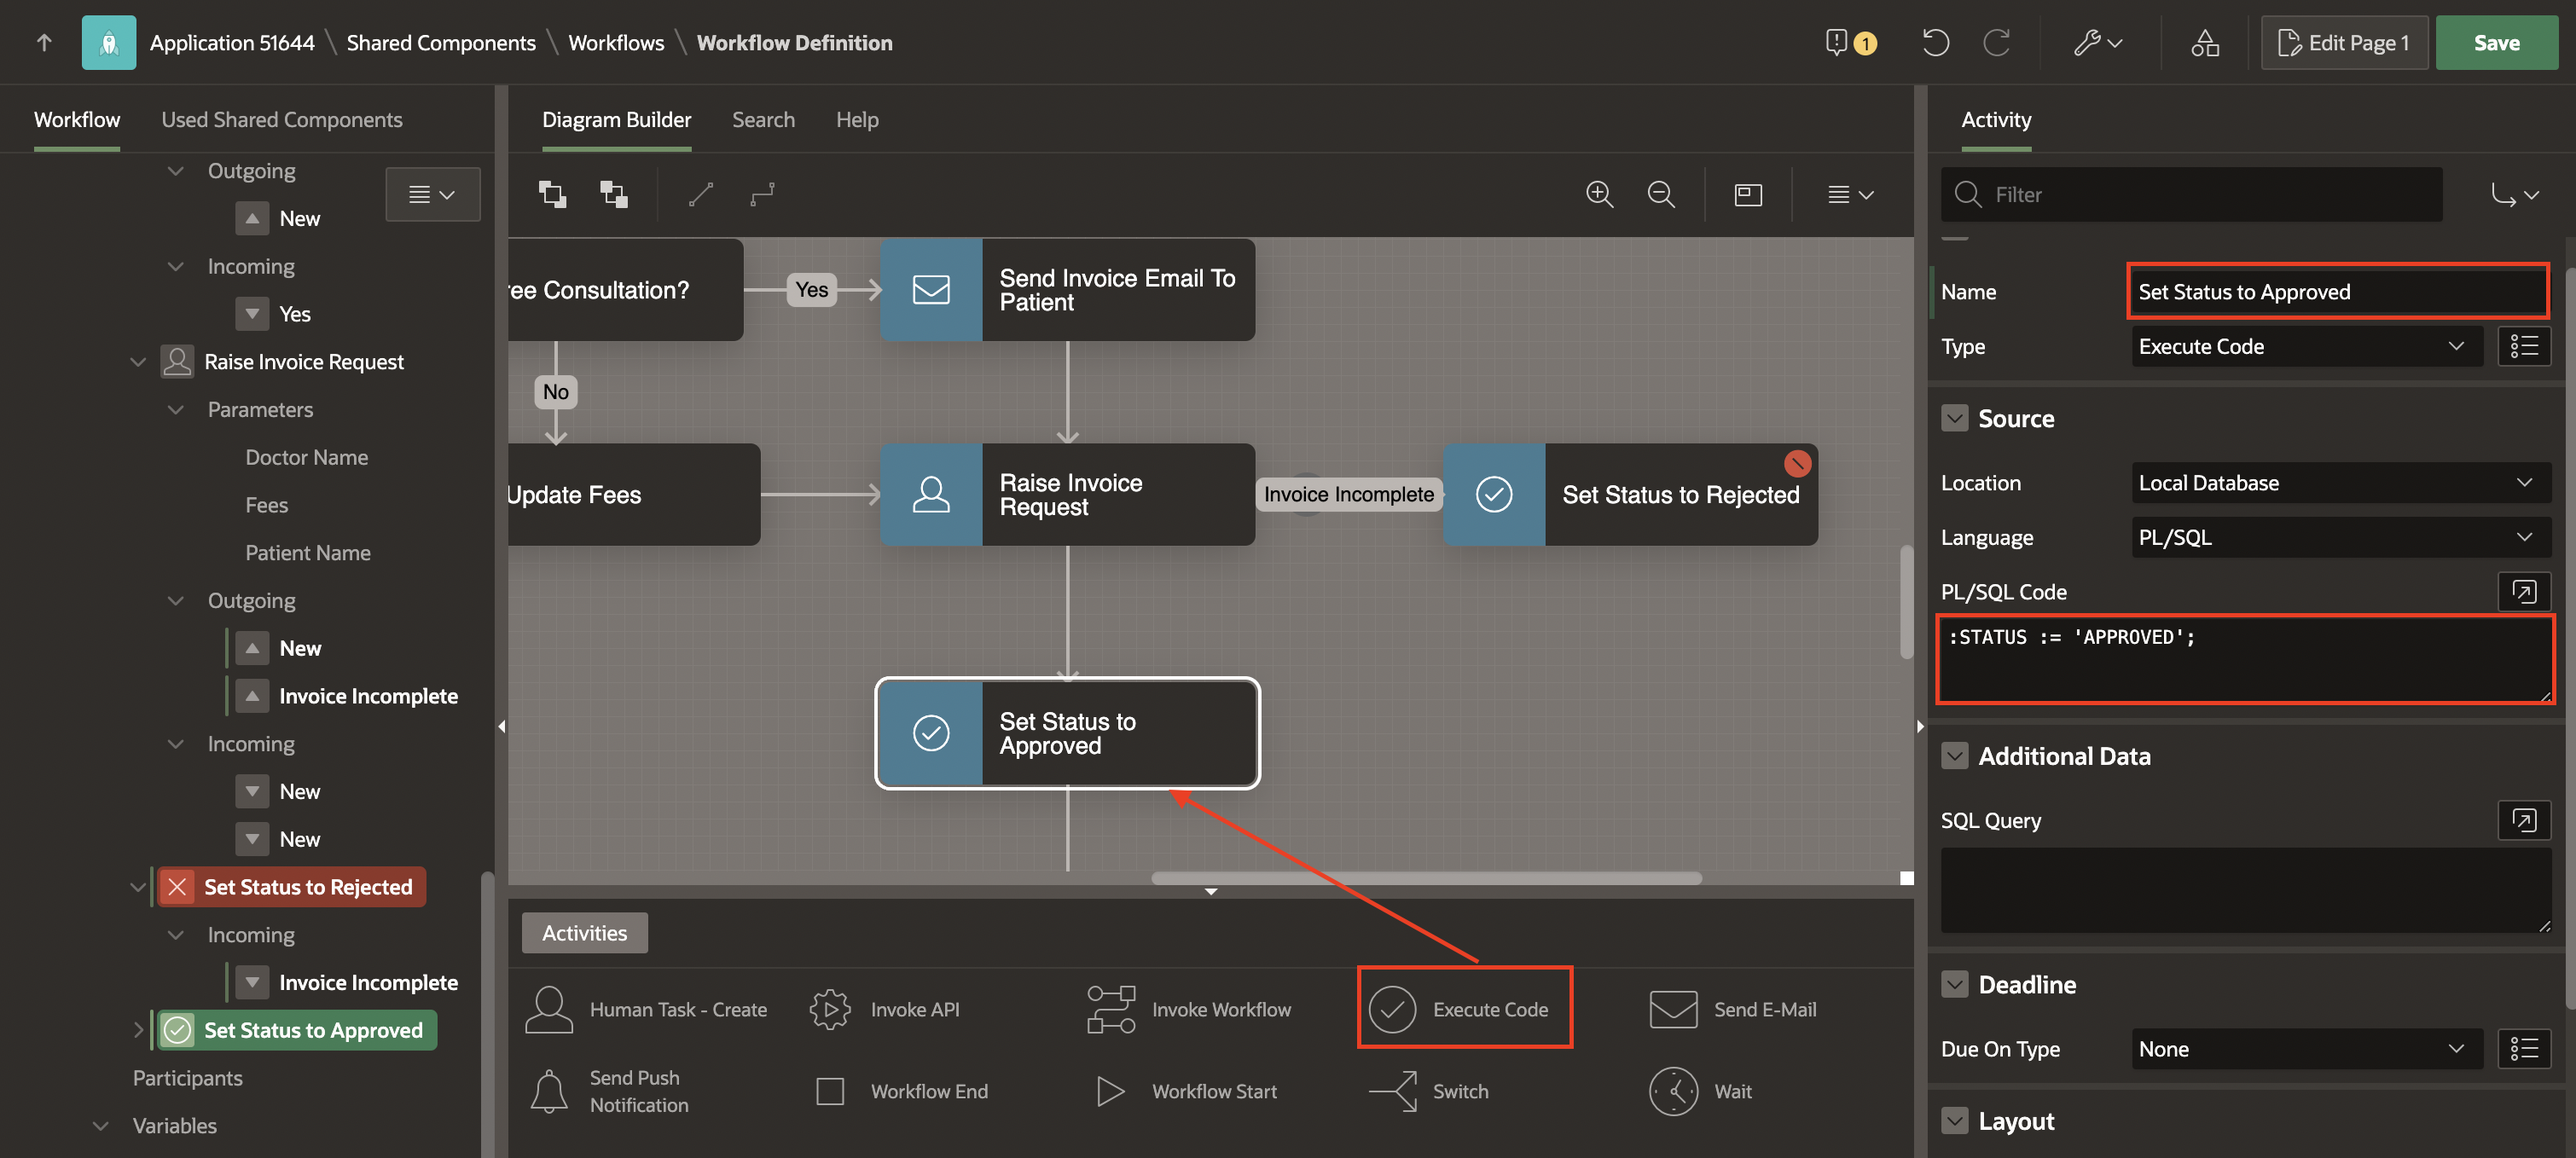
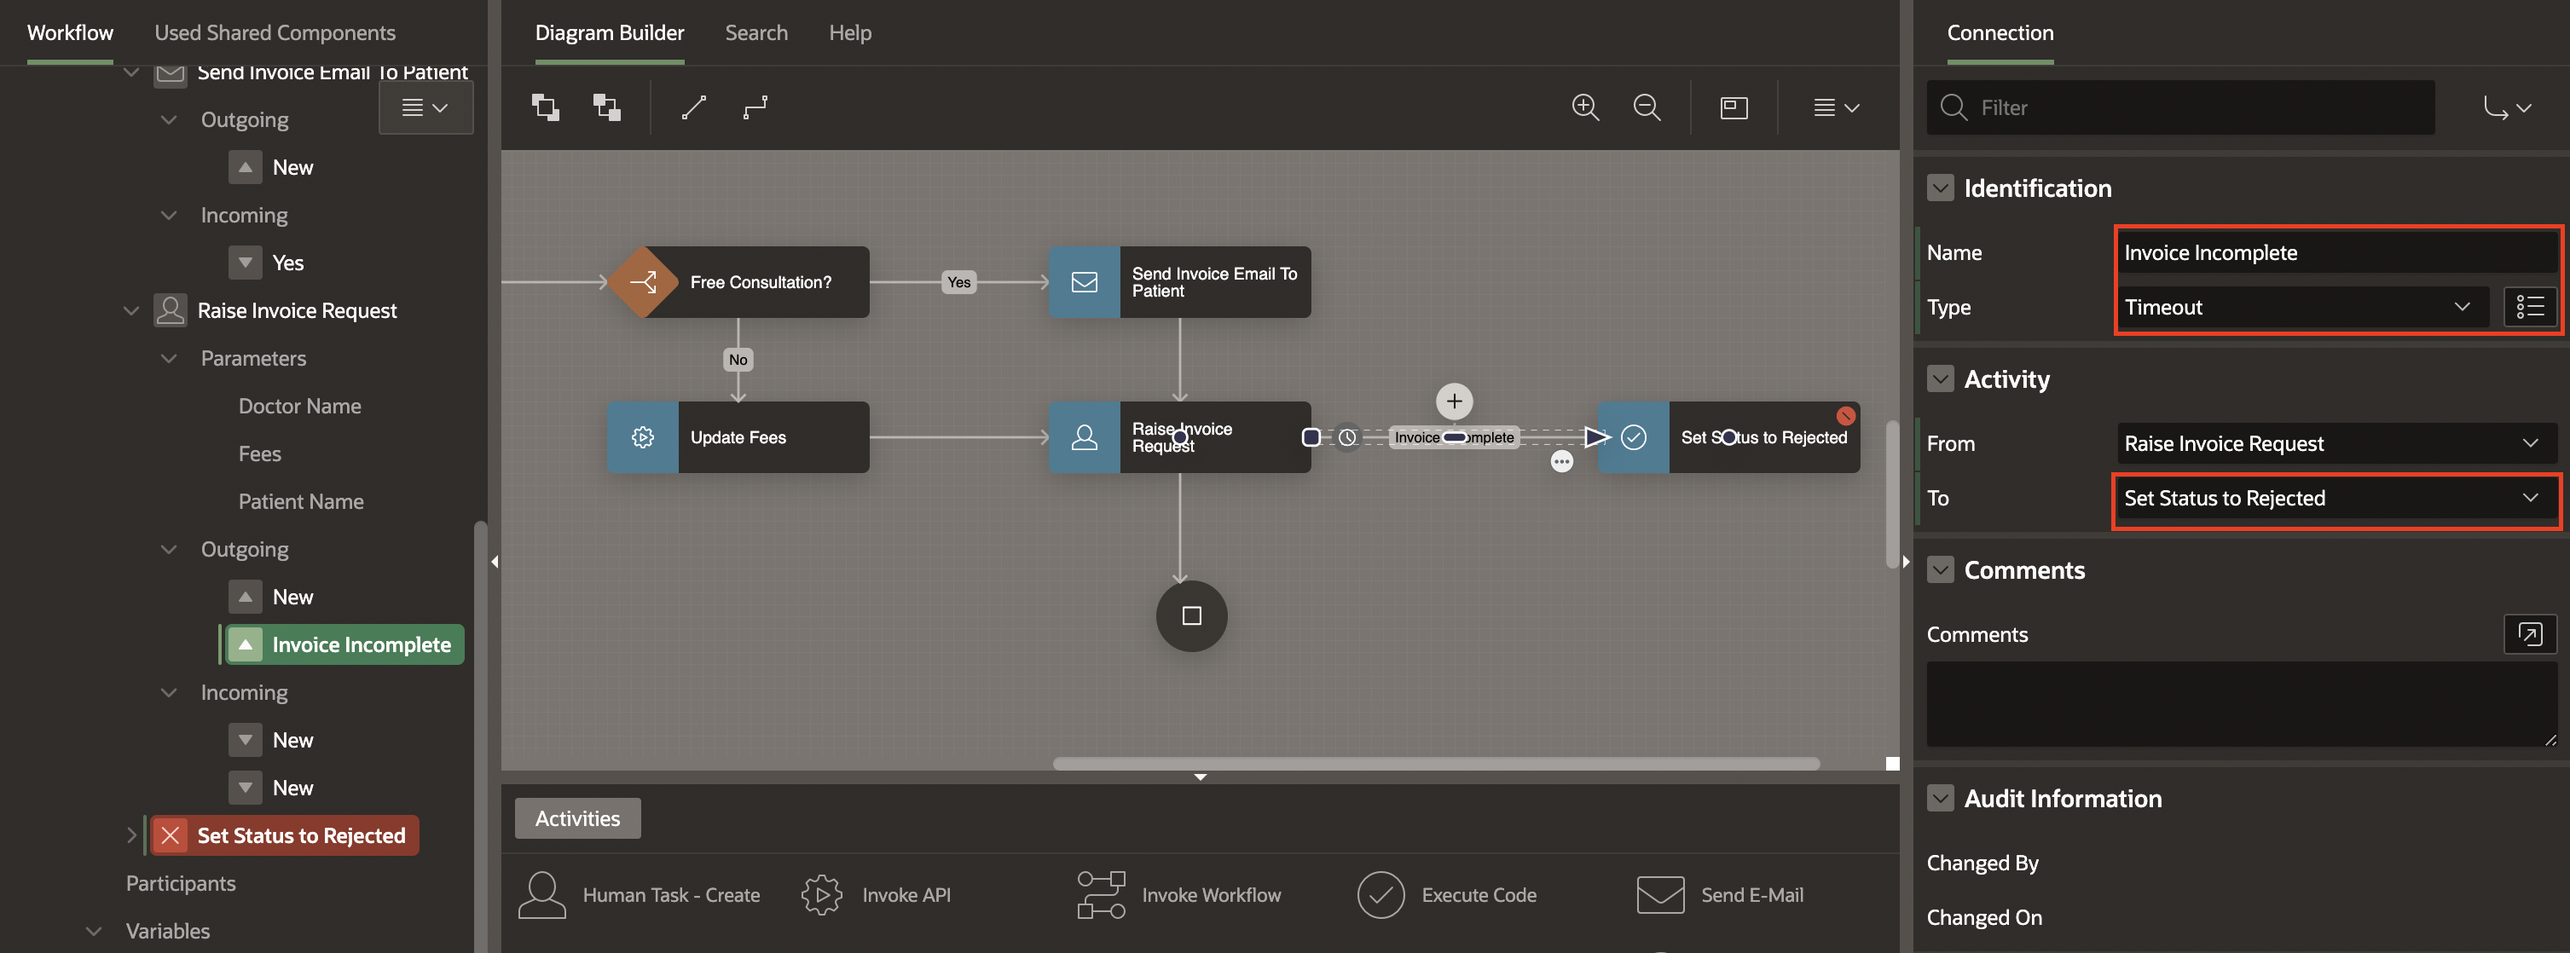
Hol22

diff --git a/apex-professional-hol22/7-doc-aapt-activities/7-doc-aapt-activities.md b/apex-professional-hol22/7-doc-aapt-activities/7-doc-aapt-activities.md
@@ -54,8 +54,6 @@ Now that we have defined the Approval and Action tasks, let us go back to the Do
 
 4. Under **Compute Doctor Availability**, expand **Parameters** and select **Function Result** parameter, in the Property Editor, enter/select the following:
 
-    - Parameter > Direction: **Out**
-
     - Value > Item: **Version Variables > AVAILABILITY**
 
     ![Configure Function Result Var](./images/configure-function-resultvar.png " ")
@@ -63,8 +61,6 @@ Now that we have defined the Approval and Action tasks, let us go back to the Do
     > **Note:** _The Item Picker in the Workflow Designer allows you to select Workflow Parameters, Version Variables, and Activity Variables. You may also reference Additional Workflow Data by using the Substitution String Syntax._
 
 5. Select **p\_doctor\_id** parameter and in the Property Editor, enter/select the following:
-
-    - Parameter > Direction: **In**
 
     - Under Value:
 
@@ -99,8 +95,6 @@ Based on the Doctor's availability, the workflow needs to branch conditionally. 
 2. Configure the Switch activity in the Property Editor for Doctor Availability conditions. Click the workflow activity you just placed in the workflow diagram, and then in the Property Editor, enter/select the following:
 
     - Identification > Name: **Doctor Available?**
-
-    - Switch > Type: **True False Check**
 
     - Under Condition:
 
@@ -219,9 +213,9 @@ At this point, check the **Variables** in your workflow tree. You will notice th
 
 1. The two Variables created are:
 
-    - **TaskOutcome** with a static Id **TASK_OUTCOME**.
-
     - **Approver** with Static ID **APPROVER**.
+
+    - **TaskOutcome** with a Static ID **TASK_OUTCOME**.
 
     ![Check Variables](./images/check-variables.png " ")
 
@@ -271,7 +265,9 @@ At this point, check the **Variables** in your workflow tree. You will notice th
 
     ![Edit End activity](./images/config-workflow-end.png " ")
 
-8. Create a connection from the **Raise Appointment Request** to **Complete Appointment**. Note that the validation error no longer shows up. Click **Save** to save the workflow model.
+8. Create a connection from the **Raise Appointment Request** to **Complete Appointment**. Note that the validation error no longer shows up.
+
+    Click **Save** to save the workflow model.
 
     ![Edit End activity](./images/end-connection.png " ")
 
@@ -348,7 +344,7 @@ In this task, you learn to manage appointment requests using a Switch activity i
     |Parameter | Value | Format Mask|
     |---------|--------|------------|
     |p\_doctor\_id|Static Value: **&DNO.**||
-    |p\_request\_date|Workflow Parameters: **REQUEST_DATE**|DD-MON-YYYY HH24:MI:SS|
+    |p\_request\_date|Workflow Parameters: **REQUEST_DATE**|**DD-MON-YYYY HH24:MI:SS**|
     |p\_doctor\_email| Static Value: **&DOC_EMAIL.**||
     |p\_patient\_name| Workflow Parameters: **PATIENT_NAME**||
     |p\_patient\_email| Workflow Parameters: **PATIENT\_EMAIL**||
@@ -400,6 +396,8 @@ In this task, you learn to manage appointment requests using a Switch activity i
 
     - Value > Item: Version Variables > **TASK_STATUS**
 
+    ![Drag and Drop Invoke Workflow Activity](./images/task-status.png " ")
+
 4. Similarly, update the following parameters:
 
     |Parameter | Value |
@@ -409,6 +407,10 @@ In this task, you learn to manage appointment requests using a Switch activity i
     |Patient Email| Item: **PATIENT_EMAIL**|
     |Patient Name| Item: **PATIENT_NAME**|
     |Request Date| Item: **REQUEST_DATE**|
+
+5. Now, detach the connection from the Confirm Appointment Activity and re-attach it to this Switch Activity.
+
+    ![Drag and Drop Invoke Workflow Activity](./images/check-conn.png " ")
 
 ## Task 14: Configure Switch Activity for Approved Appointment
 
@@ -434,7 +436,7 @@ In this task, you learn to manage appointment requests using a Switch activity i
 
 Once the Patient confirms the invoice / makes the payment, the Appointment record status needs to be updated to PAID.
 
-1. Drag and Drop an **Invoke API** activity on the Connection between the **Raise Invoice Request** and **Complete Appointment** activities.
+1. Drag and Drop an **Invoke API** activity beside **Approved?** activity.
 
     ![create and config Update appointment](./images/add-invoke-api.png " ")
 

diff --git a/apex-professional-hol22/6-calculate-fees-activities/6-calculate-fees-activities.md b/apex-professional-hol22/6-calculate-fees-activities/6-calculate-fees-activities.md
@@ -129,6 +129,8 @@ The next step is to establish connections for Free Consultation branches with ac
 
 1. From the **Activities Palette**, drag an **Invoke API** activity into the **Diagram Builder** area and drop it below the **Free Consultation?** activity.
 
+    ![Drag and Drop Invoke API Activity](./images/configure-update-fees1.png " ")
+
 2. Click the newly added **Invoke API** and in the Property Editor, enter/select the following:
 
     - Identification > Name: **Update Fees**
@@ -149,7 +151,7 @@ The next step is to establish connections for Free Consultation branches with ac
 
     - Value > Item > **Version Variables**: **FEES**
 
-    ![Configure Function Result Var](./images/configure-function-result.png " ")
+    ![Configure Function Result Var](./images/configure-function-resul.png " ")
 
 5. Similarly, configure the remaining parameters under **Confirm Appointment** as follows:
 
@@ -160,7 +162,11 @@ The next step is to establish connections for Free Consultation branches with ac
     |p\_booking\_id| Workflow Parameters > **BOOKING_ID**|
     |p\_patient\_name| Workflow Parameters > **PATIENT\_NAME**|
 
+    ![Configure Function Result Var](./images/doctor_id.png " ")
+
 6. From the **Activities Palette**, drag and drop a **Send E-Mail** activity next to the **Update Fees** activity.
+
+    ![Configure Function Result Var](./images/send-invoice-email.png " ")
 
 7. In the Property Editor, enter/select the following:
 
@@ -216,6 +222,8 @@ At this point, the workflow needs to raise an Invoice Request for the patient to
 
 1. From the **Activities Palette**, drag and drop a **Human Task - Create** activity and place it between **Update Fees** and **Complete Appointment End** activity.
 
+    ![draw conn to end activity](./images/human-task.png " ")
+
 2. With **Human Task - Create** selected, in the Property Editor, enter/select the following:
 
     - Identification > Name: **Raise Invoice Request**
@@ -234,7 +242,7 @@ At this point, the workflow needs to raise an Invoice Request for the patient to
 
     ![draw conn to end activity](./images/config-raise-inv.png " ")
 
-3. Then, detach the connection from **Send Invoice Mail To Patient** and **Update Fees** activities and attach them to the **Raise Invoice Request** activity.
+3. Then, detach the connection from **Send Invoice Mail To Patient** activity and attach them to the **Raise Invoice Request** activity.
 
      ![draw conn to raise inv](./images/draw-connections-inv.png " ")
 
@@ -259,6 +267,8 @@ At this point, the workflow needs to raise an Invoice Request for the patient to
         - Type: **Item**
 
         - Item > Workflow Parameters: **PATIENT_NAME**
+
+    ![Configure Doctor Name](./images/config-patient-name.png " ")
 
 7. Click **Save** to save the changes.
 
@@ -290,17 +300,19 @@ At this point, the workflow needs to raise an Invoice Request for the patient to
 
         - To: **Set Status to Rejected**
 
-   ![Configure timeout connection](./images/configure-timeout-prop.png " ")
+   ![Configure timeout connection](./images/execute1.png " ")
 
 3. Select the connection between **Raise Invoice Request** and **End** activity and update the following:
 
     - Activity > To: **End**
 
-    ![Configure timeout connection](./images/configure-conn.png " ")
+    ![Configure timeout connection](./images/onfigure-conn.png " ")
 
 ## Task 9: Add Execute Activity to set Status as Approved
 
 1. From the **Activities Palette**, drag and drop a **Execute Code** activity and place it between **Raise Invoice Request** and **End** activity.
+
+    ![Configure timeout connection](./images/execute-approved.png " ")
 
 2. In the Property Editor, enter/select the following:
 
@@ -308,7 +320,7 @@ At this point, the workflow needs to raise an Invoice Request for the patient to
 
     - Source > PL/SQL Code: **:STATUS := 'APPROVED';**
 
-    ![Configure Doctor Name](./images/execute1.png " ")
+    ![Configure Doctor Name](./images/set-approved.png " ")
 
 3. Draw a Connection from the **Set Status to Rejected** to the **End** Activity.
 

diff --git a/apex-professional-hol22/3-calculate-fees-workflow/3-calculate-fees-workflow.md b/apex-professional-hol22/3-calculate-fees-workflow/3-calculate-fees-workflow.md
@@ -46,7 +46,7 @@ To create a Workflow:
 
 ## Task 2: Modify Workflow Details
 
-1. With **New** selected in the **Rendering** tab, in the Property Editor, enter/select the following:
+1. Select **New** in the **Rendering** tab, in the Property Editor, enter/select the following:
 
     - Under Identification:
 
@@ -94,7 +94,7 @@ To create a Workflow:
   |------------------------|--------------------------------------------------------------------------------------------------------------------------|--------------------------------------------------------|
   | Execute Code           | Executes PL/SQL Code                                                                                                     | Yes                                                    |
   | Invoke API             | Invokes a procedure or function inside a PL/SQL package or an API from a REST Data Source.                              | Yes                                                    |
-  | Push Notifications    | Sends push notifications using PWA                                                                                      | Yes                                                    |
+  | Send Push Notifications    | Sends push notifications using PWA                                                                                      | Yes                                                    |
   | Send E-Mail            | Sends an Email based on the Email settings.                                                                             | Yes                                                    |
   | Invoke Workflow          | An activity that invokes another workflow in the current application.settings.                                                                             | Yes                                                    |
   | Human Task - Create    | Creates an Approval or Action Task based on the Task Definition specified. Once the task is created, the activity and workflow go into the Waiting state until the task is completed/approved/rejected by its owner/errors out/expires. | No                                                     |

diff --git a/apex-professional-hol22/5-add-human-tasks/5-add-human-tasks.md b/apex-professional-hol22/5-add-human-tasks/5-add-human-tasks.md
@@ -129,7 +129,7 @@ Estimated Time: 20 minutes
 
     - Under Settings:
 
-        - Actions Source: **SQL query**,
+        - Actions Source: **SQL query**
 
         - Actions SQL Query: Provide the following SQL statement:
         ```
@@ -177,7 +177,7 @@ Estimated Time: 20 minutes
 
     - Name: **Feedback Request**
 
-    - Type: **Actions Task**
+    - Type: **Action Task**
 
     - Subject: **Feedback for Consultation on &SCHEDULE.**
 
